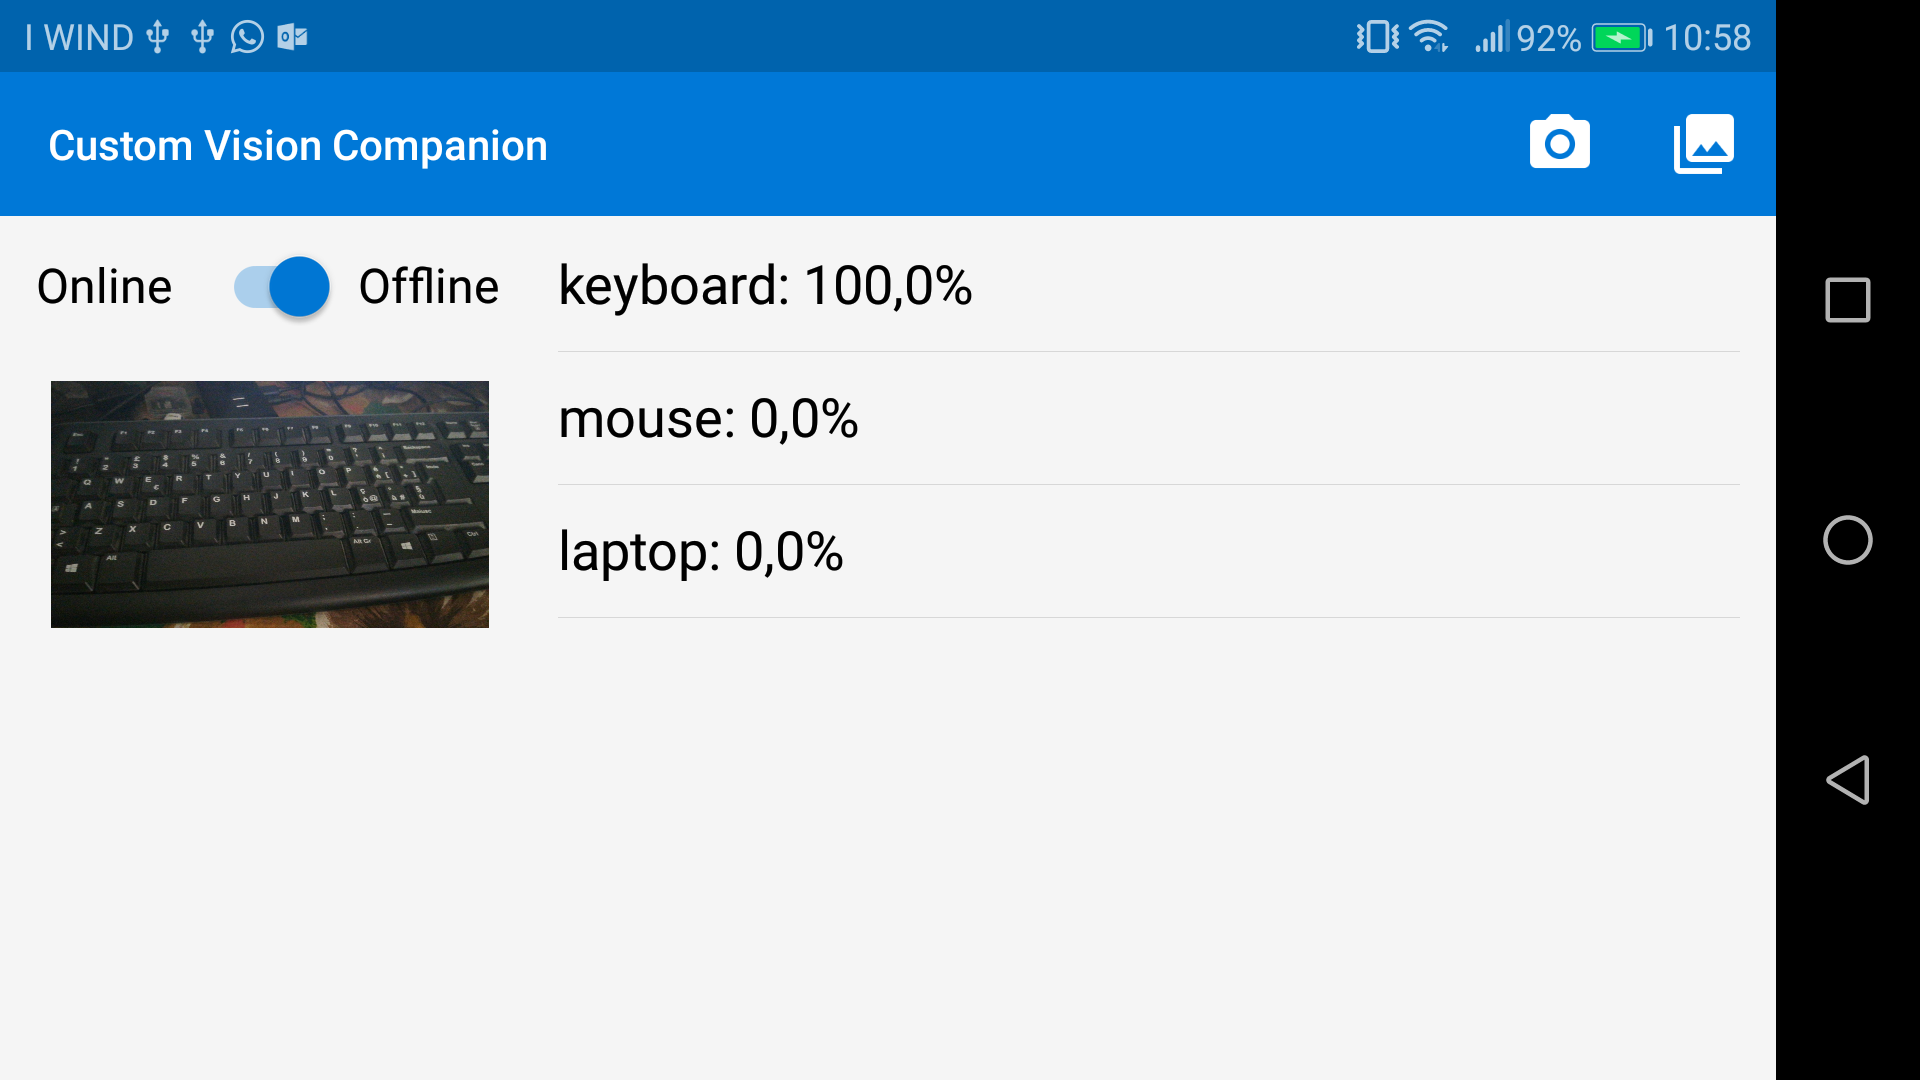
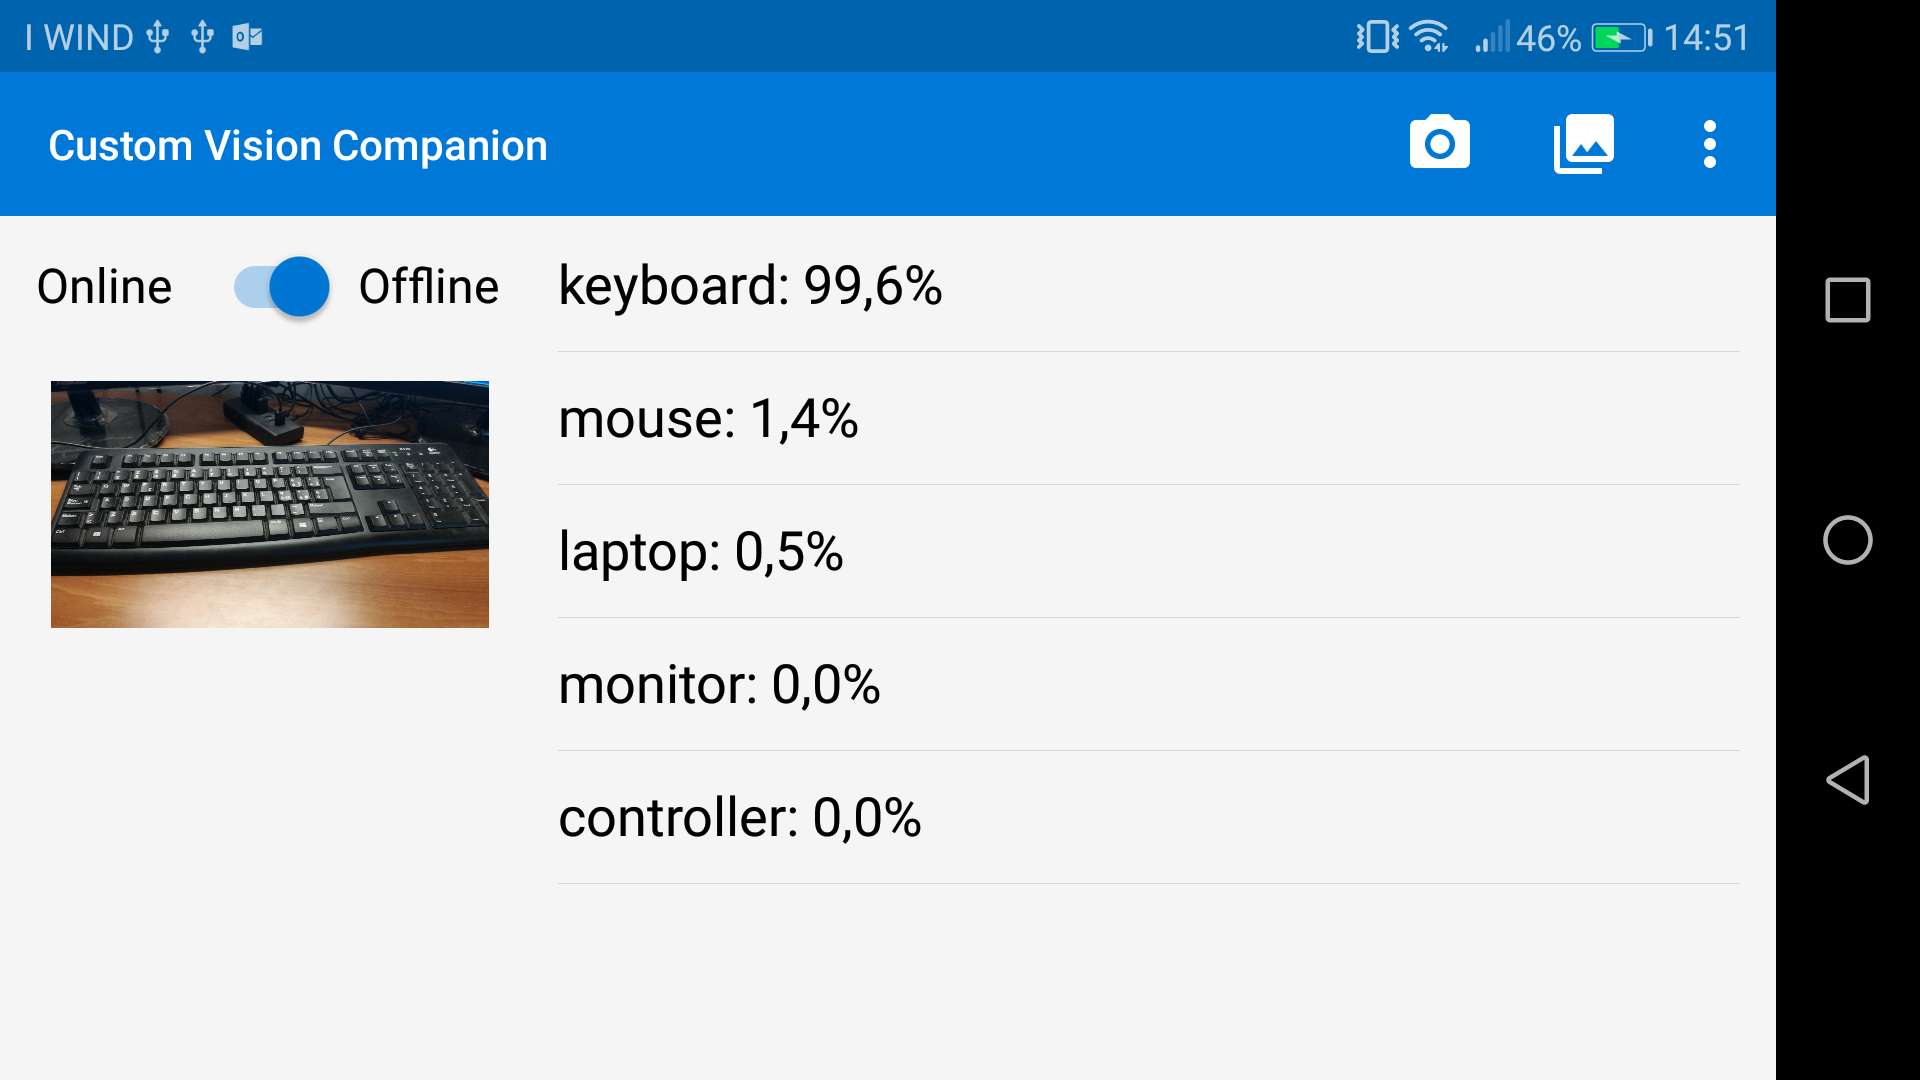
Documentation update

diff --git a/Src/CustomVisionCompanion/CustomVisionCompanion/Common/Styles.xaml b/Src/CustomVisionCompanion/CustomVisionCompanion/Common/Styles.xaml
@@ -1,5 +1,5 @@
 <?xml version="1.0" encoding="utf-8" ?>
-<?Mapping compile="true"                     ?>
+<?Mapping compile="true"                       ?>
 <ResourceDictionary xmlns="http://xamarin.com/schemas/2014/forms" xmlns:x="http://schemas.microsoft.com/winfx/2009/xaml">
     <Color x:Key="DefaultColor">#0078D7</Color>
     <Color x:Key="StatusBarColor">#0063AD</Color>

diff --git a/README.md b/README.md
@@ -1,14 +1,16 @@
 # Custom Vision Companion
 
-A Xamarin.Forms app showcasing how to use Custom Vision Service with either online and offline models.
+A Xamarin.Forms app showcasing how to use Custom Vision Service with either online and offline models. Android, iOS and UWP are currently supported.
 
 ![A screenshot of the Android version](https://raw.githubusercontent.com/DotNetToscana/CustomVisionCompanion/master/Screenshots/Android-1.png)
+
+![A screenshot of the UWP version](https://raw.githubusercontent.com/DotNetToscana/CustomVisionCompanion/master/Screenshots/Uwp-1.png)
 
 **Getting started**
 
 To use an online model, launch the app, go to the Settings page and then set *Prediction Key* and *Project Id* from Custom Vision Service Project Settings.
 
-The sample contains an offline model exported from Custom Vision Service, either for [Android](https://github.com/DotNetToscana/CustomVisionCompanion/tree/master/Src/CustomVisionCompanion/CustomVisionCompanion.Android/Assets) and [iOS](https://github.com/DotNetToscana/CustomVisionCompanion/blob/master/Src/CustomVisionCompanion/CustomVisionCompanion.iOS/Computer.mlmodel). It has been trained to recognize laptop, keboard and mouse. It isn't much accurate, but you can easily replace it with your own. You just need to download the model from [Custom Vision Service Portal](https://docs.microsoft.com/en-us/azure/cognitive-services/custom-vision-service/export-your-model).
+The sample contains an offline model exported from Custom Vision Service, for [Android](https://github.com/DotNetToscana/CustomVisionCompanion/tree/master/Src/CustomVisionCompanion/CustomVisionCompanion.Android/Assets), [iOS](https://github.com/DotNetToscana/CustomVisionCompanion/blob/master/Src/CustomVisionCompanion/CustomVisionCompanion.iOS/Resources/Computer.mlmodel) and [iOS](https://github.com/DotNetToscana/CustomVisionCompanion/blob/master/Src/CustomVisionCompanion/CustomVisionCompanion.UWP/Assets/Models/Computer.onnx). It has been trained to recognize laptops, keyboards, mice, monitors and controllers. You can easily replace it with your own: after the training, you just need to download the models from [Custom Vision Service Portal](https://docs.microsoft.com/en-us/azure/cognitive-services/custom-vision-service/export-your-model).
 
 **Android offline models**
 
@@ -37,6 +39,19 @@ xcrun coremlcompiler compile {model.mlmodel} {outputFolder}
 ```
 CrossOfflineClassifier.Current.InitializeAsync(ModelType.General, "Computer");
 ```
+
+**UWP offline models**
+
+- Replace the *Computer.onnx* file in the [Assets/Models](https://github.com/DotNetToscana/CustomVisionCompanion/tree/master/Src/CustomVisionCompanion/CustomVisionCompanion.UWP/Assets/Models) folder with your own model. Be sure that the Build Action of this file must be set to *Content*. Note that, when you add the file to the project, Visual Studio will automatically create a .cs file containing the code to use the model. You can safely delete it, as this project already contains a standard implementation.
+
+- Add the following line in the [constructor](https://github.com/DotNetToscana/CustomVisionCompanion/blob/master/Src/CustomVisionCompanion/CustomVisionCompanion.UWP/MainPage.xaml.cs#L28) of *MainPage.xaml.cs*:
+
+```
+CrossOfflineClassifier.Current.InitializeAsync(ModelType.General, "ms-appx:///Assets/Models/Computer.onnx",
+    "controller", "keyboard", "laptop", "monitor", "mouse");
+```
+
+- In the line above, after the name of the ONNX file you need to pass all the tags of the models, in the same order you find in Custom Vision Portal. This method of passing data may be improved in the future.
 
 **Contribute**
 
